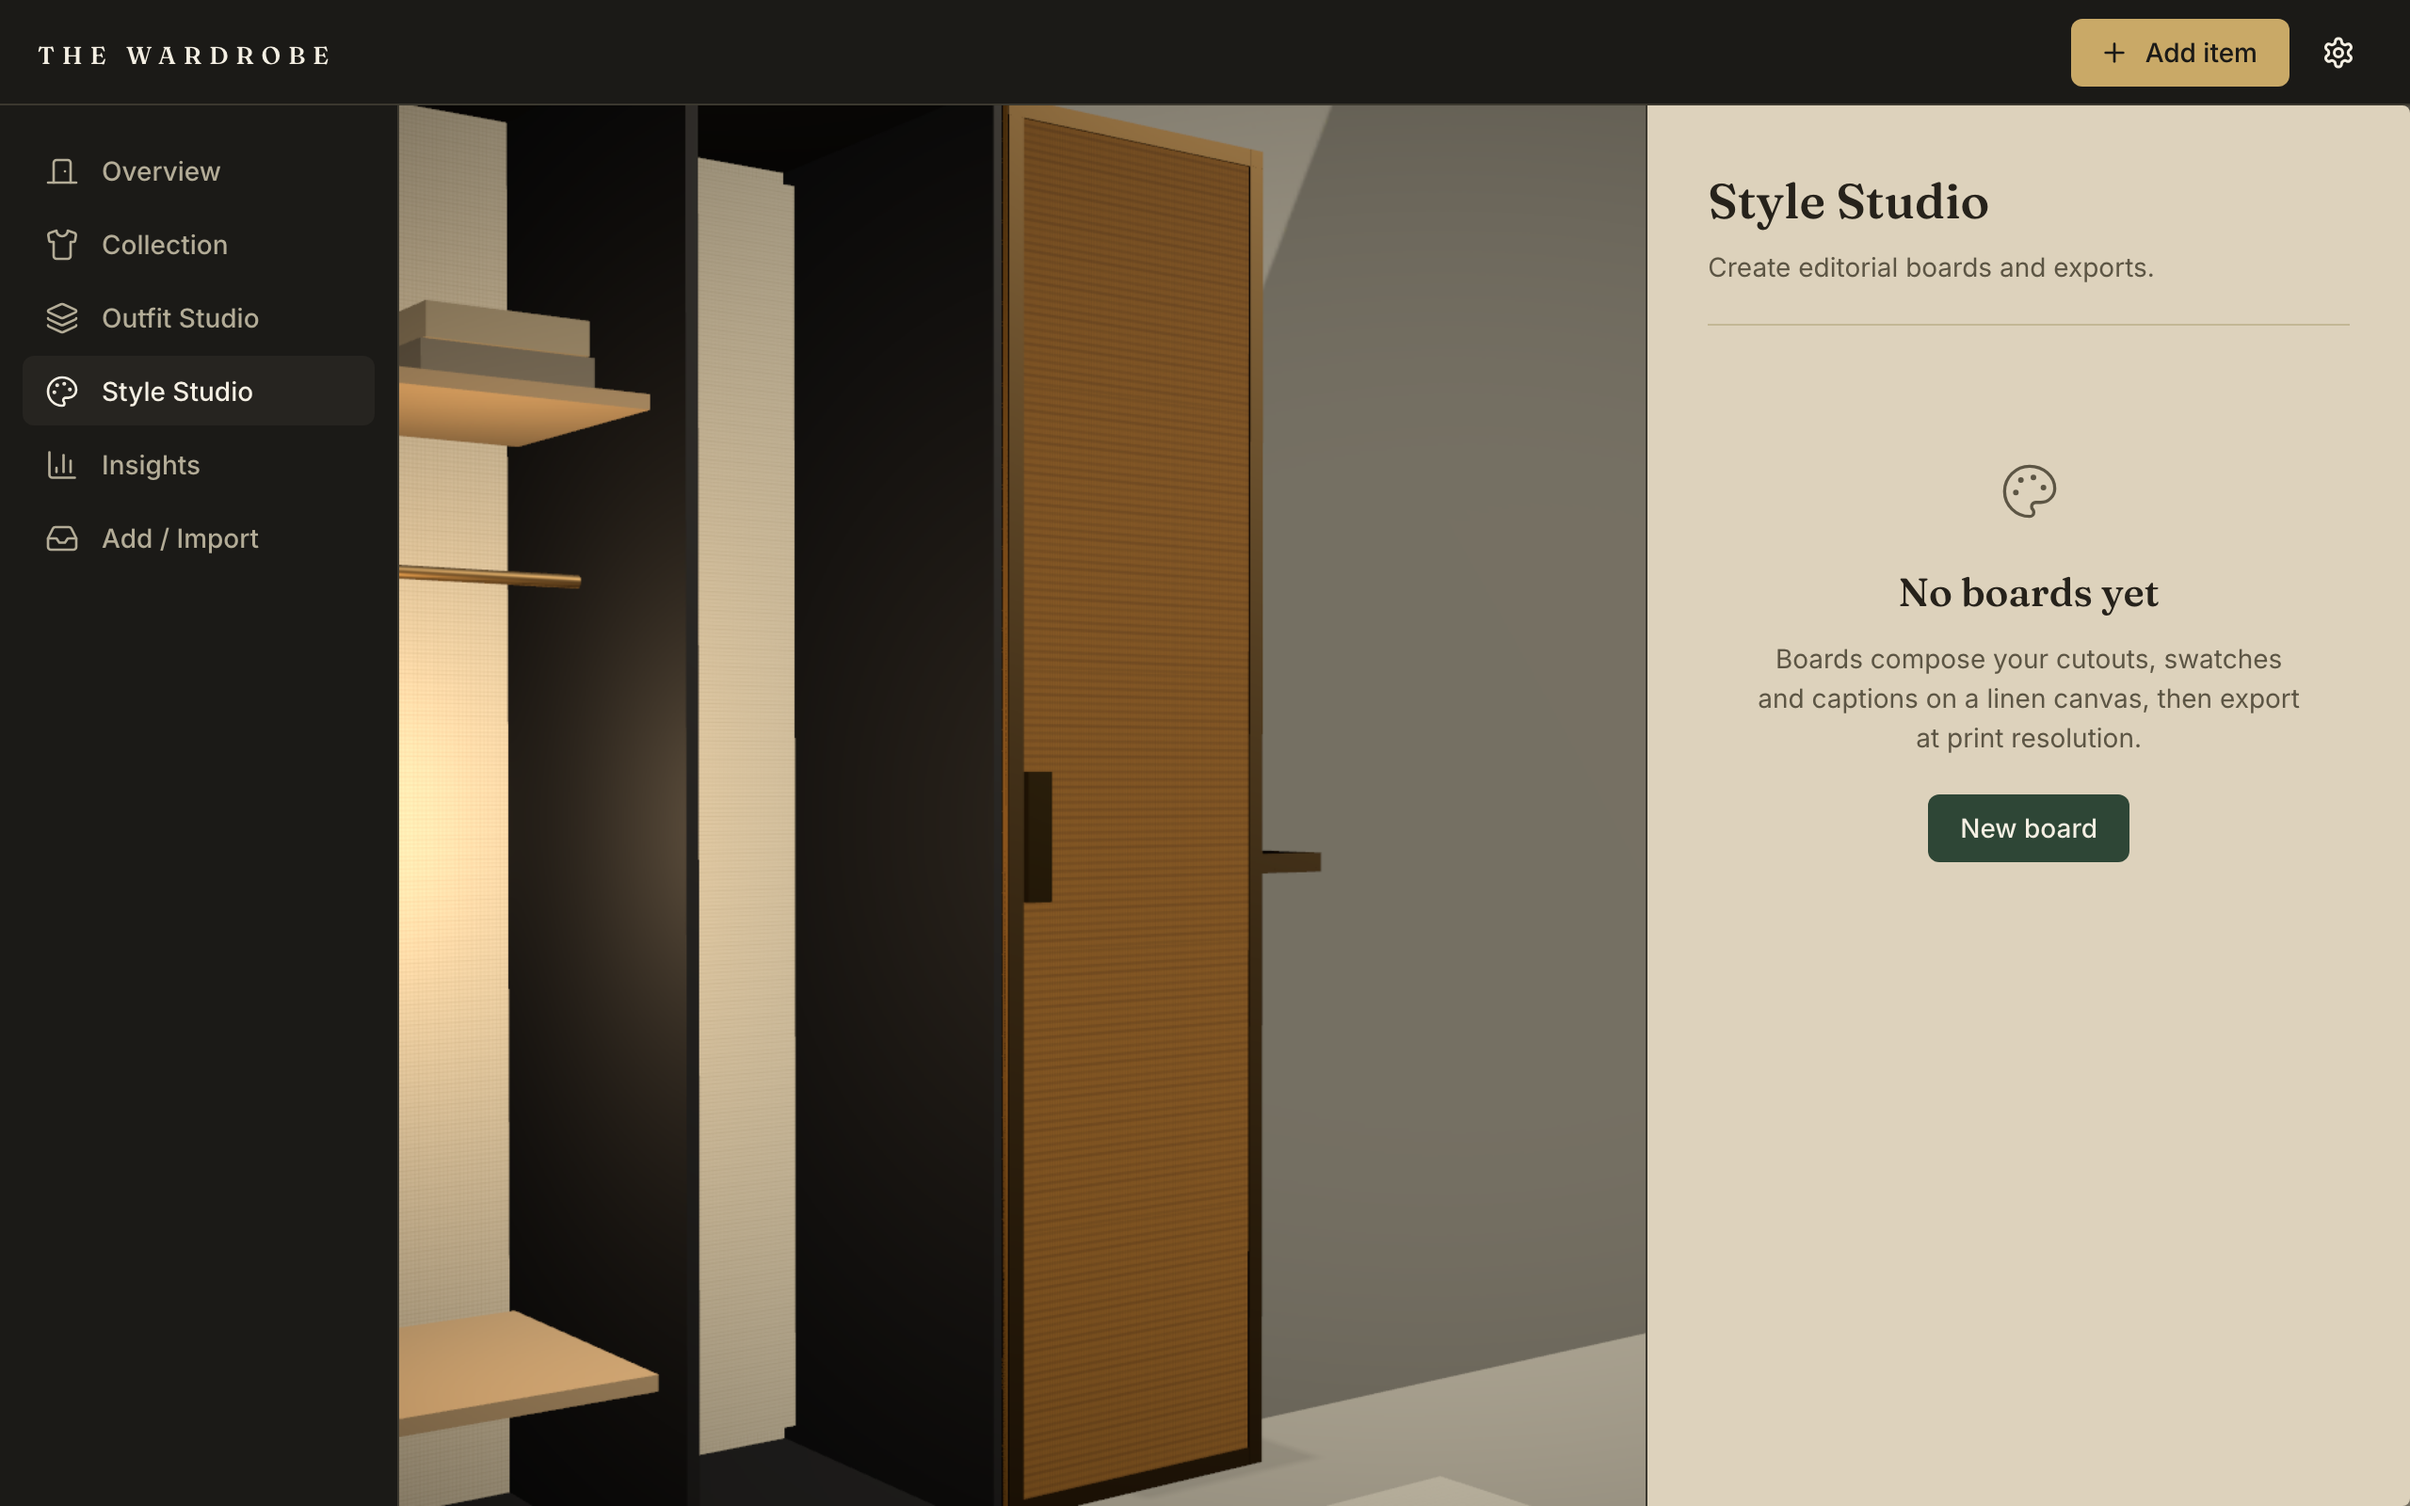
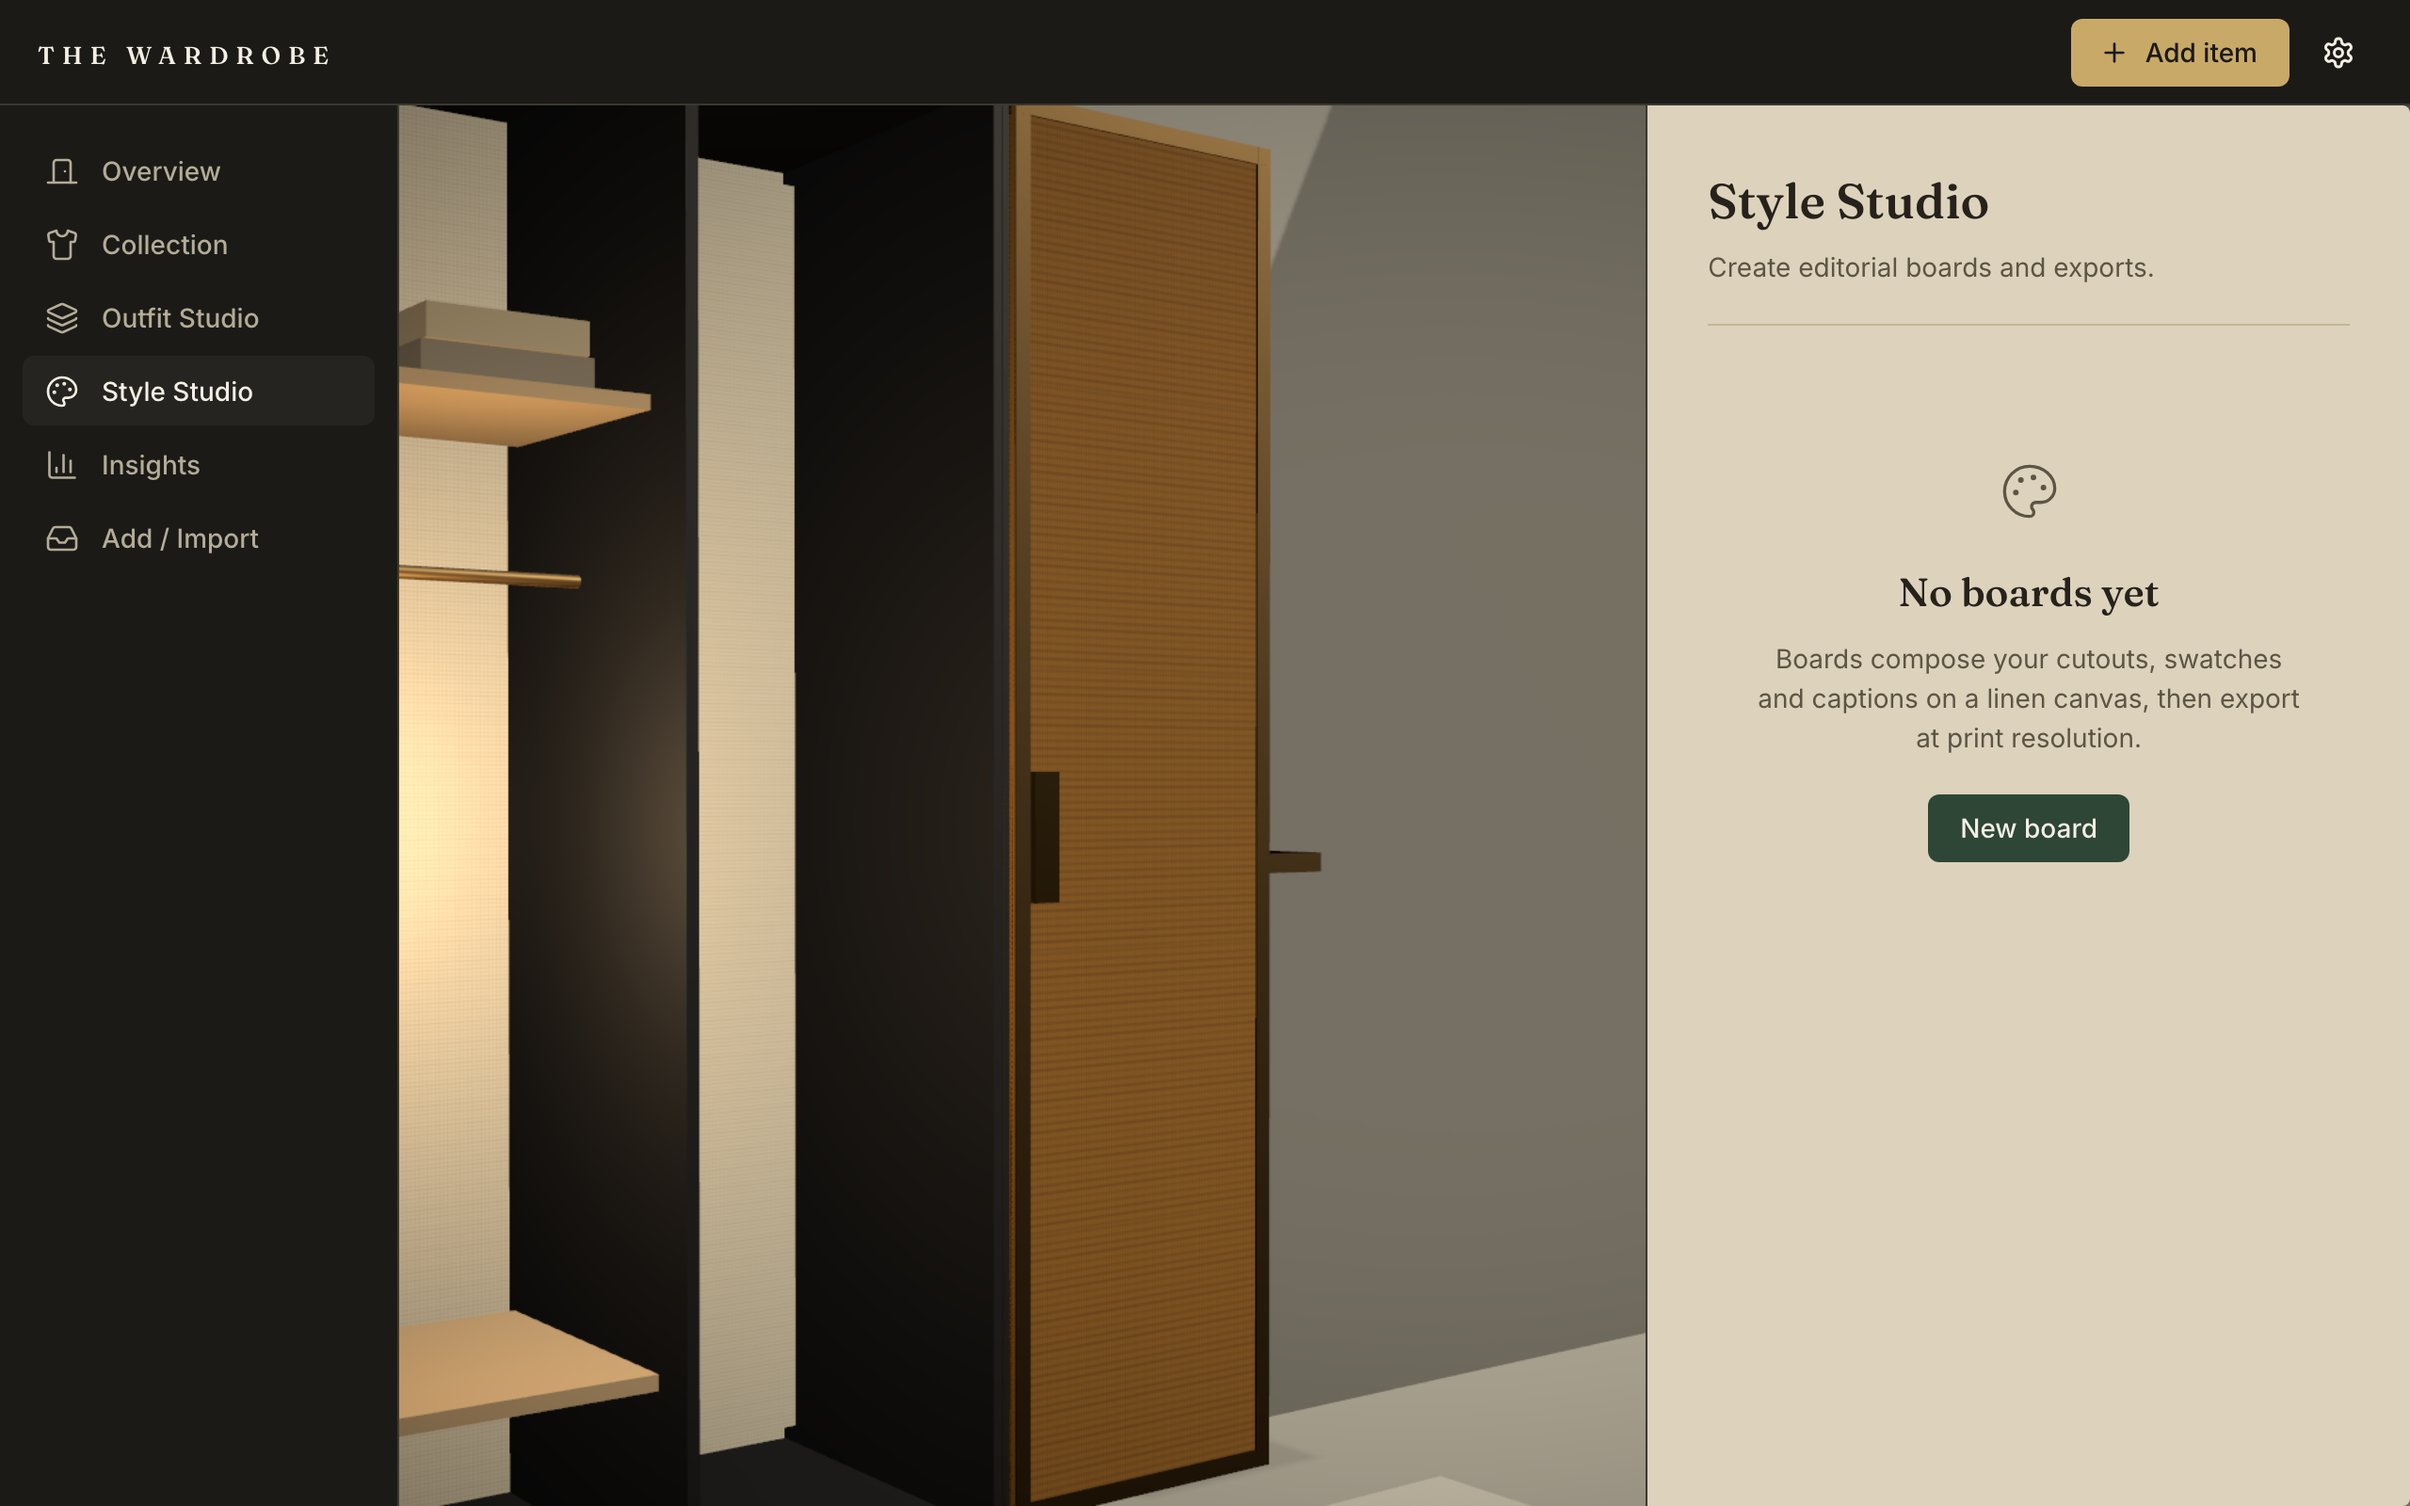
polish(revamp): animation pass — drawer presents itself, cane lifts, glow breathes
- Ledger drawer travel 0.4 → 0.62 with a slower, deeper-settled glide
  (1.1 s): the felt surface now presents as a work surface, with the
  brass ruler joined by an ivory note card; insights framing follows
- Cane panel gains the same proud-lift as the linen leaf when it starts
  moving; glow ramp slowed to 0.65 s with a settle overshoot so the
  bloom breathes in on entry
- All behavioral checks PASS

Changed region(s): [[0.4062, 0.0625, 0.5312, 1.0]]

diff --git a/src/revamp/scene/lantern/Lantern.tsx b/src/revamp/scene/lantern/Lantern.tsx
@@ -69,18 +69,19 @@ export function Lantern() {
       const k = clamp01((t - Math.max(s.tStation, s.tDoors) - LAN.caneLag) / LAN.caneDur)
       const target = wantOpen ? settle(k, 0.03) * LAN.caneSlide : (1 - easeCamera(k)) * LAN.caneSlide
       cane.current.position.x = s.fullMotion ? (k >= 1 ? (wantOpen ? LAN.caneSlide : 0) : target) : wantOpen ? LAN.caneSlide : 0
+      cane.current.position.z = s.fullMotion ? easeCamera(clamp01(k * 3)) * (wantOpen ? 0.018 : 0) : 0
     }
 
     // drawer glides for Insights
     if (drawer.current) {
       const k = clamp01((t - s.tStation) / LAN.drawerDur)
-      const offset = s.drawerOpen ? settle(k, 0.04) * LAN.drawerTravel : (1 - easeCamera(k)) * LAN.drawerTravel
+      const offset = s.drawerOpen ? settle(k, 0.055) * LAN.drawerTravel : (1 - easeCamera(k)) * LAN.drawerTravel
       const rest = s.drawerOpen ? LAN.drawerTravel : 0
       drawer.current.position.z = s.fullMotion ? (k >= 1 ? rest : offset) : rest
     }
 
     // interior glow: baseline lantern glow, blooming with the entry
-    const glowK = s.doorPhase === 'closed' ? 0.7 : 0.7 + 0.3 * easeCamera(clamp01((t - s.tDoors) / LAN.glowRamp))
+    const glowK = s.doorPhase === 'closed' ? 0.7 : 0.7 + 0.3 * settle(clamp01((t - s.tDoors) / LAN.glowRamp), 0.12)
     const breathe = s.fullMotion ? 1 + Math.sin((t * Math.PI * 2) / 9) * 0.02 : 1
     if (glowA.current) glowA.current.intensity = 1.3 * glowK * breathe
     if (glowB.current) glowB.current.intensity = 1.7 * glowK * breathe
@@ -250,6 +251,10 @@ export function Lantern() {
         </mesh>
         <mesh material={m.brass} position={[0, 0, 0.278]}>
           <boxGeometry args={[0.14, 0.016, 0.01]} />
+        </mesh>
+        <mesh position={[-0.3, LAN.drawerH / 2 + 0.004, -0.05]} rotation={[0, -0.18, 0]}>
+          <boxGeometry args={[0.21, 0.004, 0.15]} />
+          <meshStandardMaterial color="#efe7d3" roughness={0.9} />
         </mesh>
       </group>
     </group>

diff --git a/src/revamp/scene/stations.ts b/src/revamp/scene/stations.ts
@@ -28,7 +28,7 @@ export const STATIONS: Record<StationId, Station> = {
   collection: { id: 'collection', pos: { x: 0.05, y: 1.38, z: 3.3 }, tgt: { x: 0, y: 1.3, z: 0.32 } },
   outfits: { id: 'outfits', pos: { x: 0.7, y: 1.28, z: 3.7 }, tgt: { x: -1.8, y: 1.2, z: 0.5 }, onDoor: true },
   style: { id: 'style', pos: { x: -0.9, y: 1.32, z: 3.5 }, tgt: { x: 1.38, y: 1.28, z: 0.42 }, onDoor: true },
-  insights: { id: 'insights', pos: { x: 0.65, y: 1.2, z: 2.4 }, tgt: { x: 0, y: 0.25, z: 0.78 } },
+  insights: { id: 'insights', pos: { x: 0.6, y: 1.25, z: 2.5 }, tgt: { x: -0.05, y: 0.22, z: 0.95 } },
   import: { id: 'import', pos: { x: -0.5, y: 1.28, z: 3.1 }, tgt: { x: 2.0, y: 1.18, z: 0.12 } },
 }
 

diff --git a/src/revamp/scene/lantern/dims.ts b/src/revamp/scene/lantern/dims.ts
@@ -21,13 +21,13 @@ export const LAN = {
   caneDur: 1.1,
   caneLag: 0.15,
   cameraDepartDelay: 0.25,
-  glowRamp: 0.4,
+  glowRamp: 0.65,
 
   railY: 1.62,
   drawerY: 0.055,
   drawerH: 0.08,
-  drawerTravel: 0.4,
-  drawerDur: 0.9,
+  drawerTravel: 0.62,
+  drawerDur: 1.1,
 
   mirrorX: -1.85,
   trayX: 2.0,
